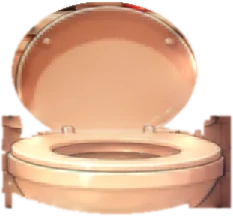
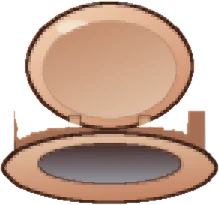
Aseo: redraw the open toilet lid and cut the whole poinsettia for the floor
Claude-Session: https://claude.ai/code/session_01GjLTrjLzzh3c6aFvnZHdaW

diff --git a/casa.html b/casa.html
@@ -277,7 +277,7 @@ const PROPS={
 // generated by tools/entrada_capas.py: piece of picture shown on top of the base when tapped
 // generated by tools/*_capas.py: per room, pieces of picture shown on top of the base when tapped
 const CAPAS={
-  aseo:/*CAPAS:aseo*/{"cuadro":{"x":804,"y":14,"w":155,"h":187,"hits":[[812,22,138,100]],"group":"cuadro","label":"cuadro"},"botes":{"x":1303,"y":273,"w":99,"h":103,"hits":[[1300,270,100,100]],"group":"botes","label":"botes de la ducha"},"toalla":{"x":192,"y":361,"w":115,"h":278,"hits":[[200,372,98,258]],"group":"toalla","label":"toalla"},"mueble":{"x":291,"y":588,"w":414,"h":230,"hits":[[346,595,304,213]],"group":"mueble","label":"mueble del lavabo"},"tapa":{"x":792,"y":501,"w":233,"h":216,"hits":[[800,625,215,85]],"group":"tapa","label":"tapa del váter"},"papelera":{"x":1024,"y":625,"w":97,"h":107,"hits":[[1028,696,88,132]],"group":"papelera","label":"papelera"},"flor_lavabo":{"x":320,"y":292,"w":171,"h":228,"hits":[[318,298,168,216]],"group":"flor","label":"flor"},"flor_suelo":{"x":223,"y":647,"w":165,"h":240,"hits":[[230,660,150,210]],"group":"flor","label":"flor"},"planta":{"x":855,"y":0,"w":267,"h":380,"hits":[[945,40,175,360]],"group":"planta","label":"planta"}}/*FIN:aseo*/,
+  aseo:/*CAPAS:aseo*/{"cuadro":{"x":804,"y":14,"w":155,"h":187,"hits":[[812,22,138,100]],"group":"cuadro","label":"cuadro"},"botes":{"x":1303,"y":273,"w":99,"h":103,"hits":[[1300,270,100,100]],"group":"botes","label":"botes de la ducha"},"toalla":{"x":192,"y":361,"w":115,"h":278,"hits":[[200,372,98,258]],"group":"toalla","label":"toalla"},"mueble":{"x":291,"y":588,"w":414,"h":230,"hits":[[346,595,304,213]],"group":"mueble","label":"mueble del lavabo"},"tapa":{"x":798,"y":501,"w":219,"h":205,"hits":[[800,625,215,85]],"group":"tapa","label":"tapa del váter"},"papelera":{"x":1024,"y":625,"w":97,"h":107,"hits":[[1028,696,88,132]],"group":"papelera","label":"papelera"},"flor_lavabo":{"x":298,"y":293,"w":188,"h":228,"hits":[[318,298,168,216]],"group":"flor","label":"flor"},"flor_suelo":{"x":201,"y":648,"w":182,"h":239,"hits":[[230,660,150,210]],"group":"flor","label":"flor"},"planta":{"x":855,"y":0,"w":267,"h":380,"hits":[[945,40,175,360]],"group":"planta","label":"planta"}}/*FIN:aseo*/,
 };
 const ENTRADA_CAPAS=/*CAPAS_ENTRADA*/{"abrigos":{"x":309,"y":335,"w":177,"h":215,"hits":[[300,320,180,220]],"group":"abrigos"},"corona":{"x":777,"y":57,"w":176,"h":126,"hits":[[730,0,260,200]],"group":"corona"},"cojin_banco":{"x":353,"y":538,"w":112,"h":105,"hits":[[355,540,105,100]],"group":"cojin"},"cojin_suelo":{"x":447,"y":691,"w":175,"h":74,"hits":[[455,688,155,62]],"group":"cojin"},"alfombrilla":{"x":1164,"y":634,"w":292,"h":147,"hits":[[1180,650,250,115]],"group":"alfombrilla"},"alfombra_pasillo":{"x":486,"y":554,"w":210,"h":120,"hits":[[500,565,200,100]],"group":"alfombra_pasillo"},"alfombra":{"x":320,"y":764,"w":433,"h":177,"hits":[[330,800,250,141]],"group":"alfombra"},"cajon_izq_1":{"x":137,"y":613,"w":123,"h":102,"hits":[[144,613,109,75]],"group":"cajon_izq_1"},"cajon_izq_2":{"x":249,"y":595,"w":96,"h":90,"hits":[[255,595,84,63]],"group":"cajon_izq_2"},"puerta_izq_1":{"x":111,"y":677,"w":112,"h":156,"hits":[[144,677,79,147]],"group":"puerta_izq_1"},"puerta_izq_2":{"x":224,"y":653,"w":88,"h":138,"hits":[[224,660,62,131]],"group":"puerta_izq_2"},"puerta_izq_3":{"x":288,"y":638,"w":75,"h":128,"hits":[[288,645,53,121]],"group":"puerta_izq_3"},"puerta_der_1":{"x":1503,"y":636,"w":76,"h":142,"hits":[[1525,643,54,135]],"group":"puerta_der_1"},"puerta_der_2":{"x":1580,"y":667,"w":90,"h":156,"hits":[[1580,667,64,147]],"group":"puerta_der_2"}}/*FIN_CAPAS*/;
 const NOMBRES={abrigos:'perchero',corona:'lámpara',cojin:'cojín',alfombrilla:'alfombrilla',alfombra_pasillo:'alfombra del pasillo',alfombra:'alfombra'};

diff --git a/tools/aseo_capas.py b/tools/aseo_capas.py
@@ -88,19 +88,47 @@ pl = A.door_panel(out, [(346, 595), (498, 595), (498, 808), (346, 808)], 'l', op
 pr = A.door_panel(out, [(499, 595), (650, 595), (650, 808), (499, 808)], 'r', openness=0.36)
 A.save('mueble', out, om | pl | pr, [[346, 595, 304, 213]], label='mueble del lavabo', feather=0)
 
-# ---------- tapa: the toilet lid opens (lid + seat from the new picture, fitted to this toilet) ----------
-def fx_t(x, y): return 920 + (x - 907.5) / 1.236
-def fy_t(x, y): return np.where(y < 628, 625 - (628 - y) / 0.78, 625 + (y - 628) / 0.90)
-src = A.remap(alt, fx_t, fy_t)
-cover = A.grow(A.clean(A.rect(795, 618, 1022, 708) & ((r > 110) & (r > 1.5 * g) | (base.mean(2) < 70)), 5, 3), 3)
-lid = A.ellipse(896, 572, 92, 70) & (yy >= 503)
-seat = A.ellipse(907, 670, 110, 44)
-tm = cover | lid | seat
-porc = A.rect(822, 716, 1000, 792)
-src = A.match(src, porc, porc, strength=0.9)
-src = A.pixelize(src, 3, 0.55)
-out = A.seamless(src, tm, known=~A.rect(780, 495, 1030, 520))     # keep the tank top crisp
-A.save('tapa', out, tm, [[800, 625, 215, 85]], label='tapa del váter', feather=1.0)
+# ---------- tapa: the toilet lid opens (drawn in the same pixel style as this toilet) ----------
+OUTL = np.array([58, 30, 22], np.float32)
+LIGHT = np.array([242, 226, 205], np.float32); MID = np.array([228, 176, 138], np.float32)
+SHADE = np.array([196, 132, 100], np.float32)
+def shade_ellipse(cx, cy, rx, ry, lx=-0.45, ly=-0.55):
+    """porcelain colour with a light from the top-left"""
+    u = (xx - cx) / rx; v = (yy - cy) / ry
+    t = np.clip(0.5 + 0.55 * (u * lx + v * ly), 0, 1)[..., None]
+    return SHADE * (1 - t) + LIGHT * t * 0.55 + MID * t * 0.45
+out = base.copy()
+# lid standing up against the tank
+LC = (907, 566, 84, 64)
+lid = A.ellipse(*LC) & (yy <= 633)
+out[lid] = shade_ellipse(*LC)[lid]
+inner = A.ellipse(907, 570, 66, 48) & (yy <= 626)
+rim = lid & ~inner
+out[inner] = (shade_ellipse(907, 560, 70, 52, 0.3, 0.6)[inner] * 0.96)       # recessed underside
+out[rim] = out[rim] * 1.04
+out[lid & ~A.shrink(lid, 7)] = OUTL                                          # 3 px outline
+out[(A.grow(inner, 3) & ~inner) & lid] = (out[(A.grow(inner, 3) & ~inner) & lid] * 0.82)
+for hx in (872, 942):                                                         # bumpers / hinges
+    bump = A.rect(hx - 6, 616, hx + 7, 630); out[bump] = MID * 0.93
+    out[bump & ~A.shrink(bump, 3)] = OUTL
+hl = A.ellipse(872, 528, 18, 7) & lid & ~inner; out[hl] = LIGHT                 # shine
+# seat ring with the bowl opening
+SC = (907, 668, 108, 36)
+seat = A.ellipse(*SC)
+out[seat] = shade_ellipse(907, 660, 108, 36, -0.2, -0.8)[seat]
+hole = A.ellipse(907, 664, 70, 19)
+t = np.clip((yy - 645) / 38, 0, 1)[..., None]
+water = np.array([70, 48, 46], np.float32) * (1 - t) + np.array([150, 150, 160], np.float32) * t
+out[hole] = water[hole]
+out[(A.grow(hole, 5) & ~hole)] = out[(A.grow(hole, 5) & ~hole)] * 0.86
+out[seat & ~A.shrink(seat, 7)] = OUTL
+out[(A.grow(hole, 3) & ~hole)] = OUTL * 1.2
+gap = A.rect(798, 612, 1018, 660) & ~seat & ~lid & ((r > 1.4 * g) | (base.mean(2) < 90))
+gap = A.grow(gap, 3) & A.rect(812, 612, 1003, 660) & ~seat & ~lid           # old red cover around the lid
+out[gap] = SHADE * 0.85
+tm = lid | seat | gap
+out = np.where(tm[..., None], A.pixelize(out, 3, 0.7), out)
+A.save('tapa', out, tm, [[800, 625, 215, 85]], label='tapa del váter', feather=0.6)
 
 # ---------- papelera: the bin lid opens ----------
 SX, SY = 1.17, 0.87
@@ -119,22 +147,32 @@ A.save('papelera', out, bm, [[1028, 696, 88, 132]], label='papelera', feather=1.
 
 # ---------- flor: the poinsettia leaves the sink and appears on the floor ----------
 FPOLY = [(392,298),(412,300),(445,312),(468,333),(486,372),(482,392),(458,410),(452,432),(450,512),
-         (356,512),(352,432),(332,420),(312,392),(318,345),(345,322),(375,305)]
+         (356,512),(352,432),(326,428),(300,398),(304,350),(340,318),(375,305)]
 fpoly = A.grow(A.poly(FPOLY), 7)
 petal = (r > 120) & (g < 105) & (r > 1.55 * g)
 leaf = GREEN & (g > 30)
 core = (petal | leaf) & fpoly
 core = A.clean(core, 5, 0)
 outline = A.grow(core, 3) & (base.mean(2) < 70) & fpoly
-pot = A.poly([(354,424),(452,424),(450,504),(356,504)])
+pot = A.poly([(354,424),(452,424),(450,500),(356,500)])
 yellow = (r > 180) & (g > 140) & (b < 90) & A.rect(380, 330, 420, 360)   # flower centre
-flower = A.clean(core | outline | yellow, 7, 0) & fpoly
-flower = (flower & ~(A.rect(300, 280, 382, 440) & ~A.clean(core, 3, 0))) | pot
+garland = A.rect(300, 270, 372, 330) | A.rect(456, 393, 520, 440) | A.rect(300, 400, 326, 440)
+flower = A.clean(core | outline | yellow, 7, 0) & fpoly & ~garland
+flower |= pot
 flower = A.clean(flower, 3, 3)
 from scipy import ndimage
 flower = ndimage.binary_fill_holes(flower)
 lab, n = ndimage.label(flower); sizes = ndimage.sum(flower, lab, range(1, n + 1))
 flower = np.isin(lab, 1 + np.where(sizes >= 400)[0])
+see_through = (base.mean(2) > 135) & ~petal & ~(GREEN) & ~yellow & (yy < 424)
+flower &= ~see_through
+plantpx = petal | leaf | yellow | (base.mean(2) < 85)
+flower = (flower & plantpx) | pot
+holes = ndimage.binary_fill_holes(flower) & ~flower
+hl, hn = ndimage.label(holes); hs = ndimage.sum(holes, hl, range(1, hn + 1))
+flower |= np.isin(hl, 1 + np.where(hs < 80)[0])
+flower = A.clean(flower, 0, 2)
+flower = A.clean(flower, 0, 3)
 rm = A.grow(flower, 5)
 out = base.copy()
 # 1) left garland strip + mirror above the garland bottom: copied from the same columns 120 px higher
